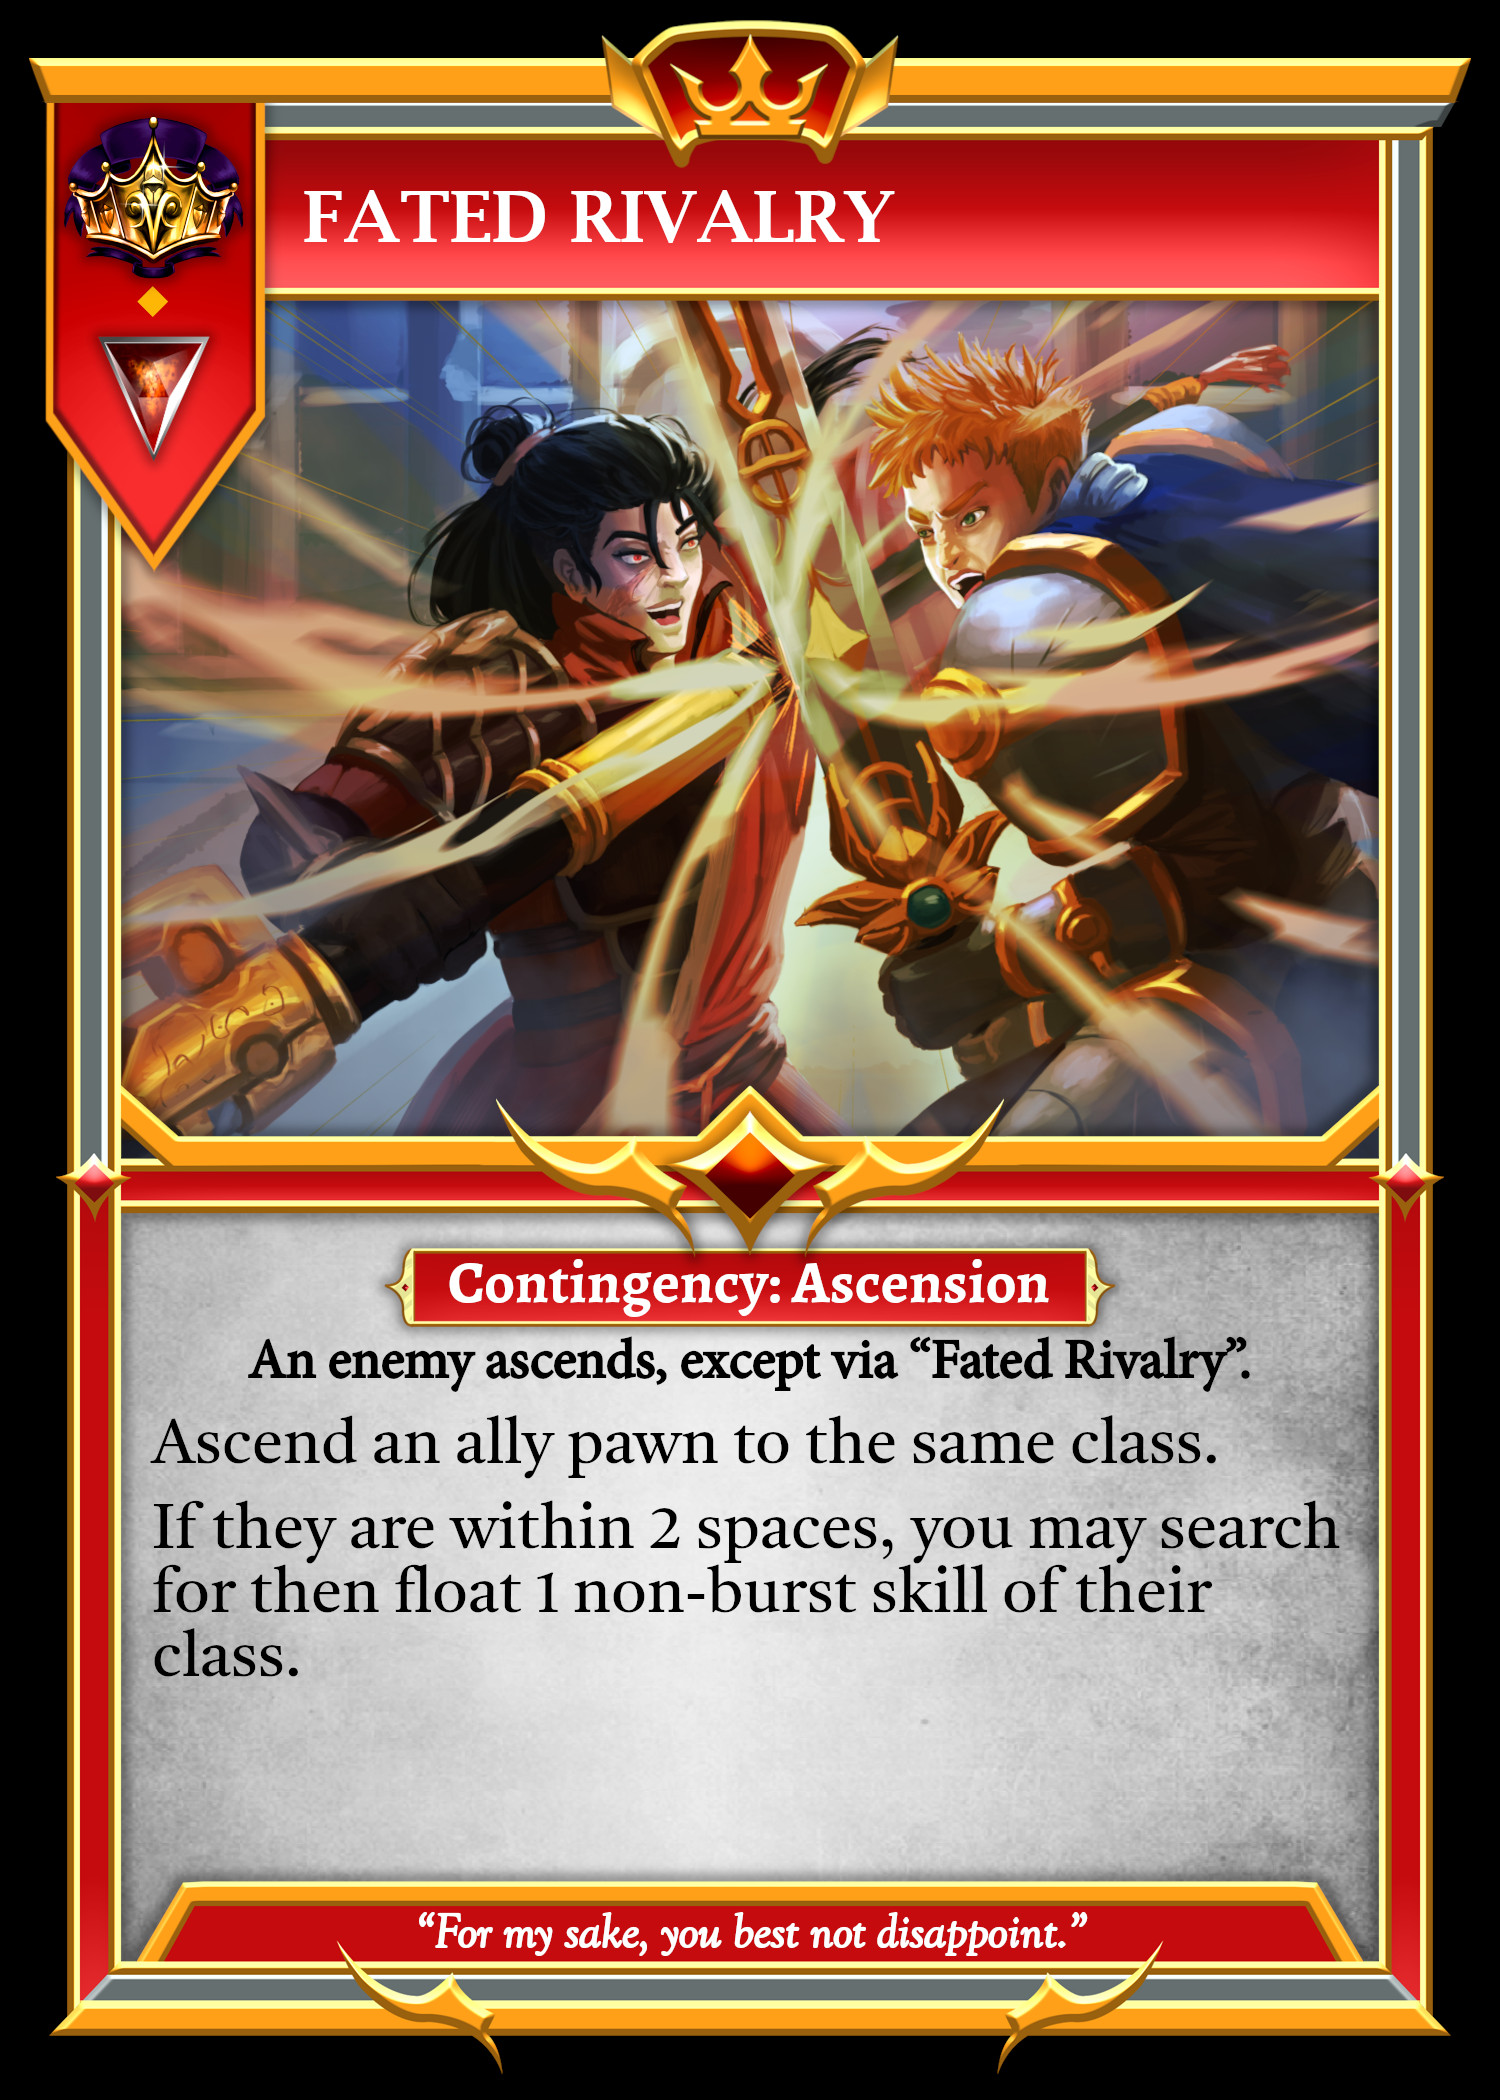
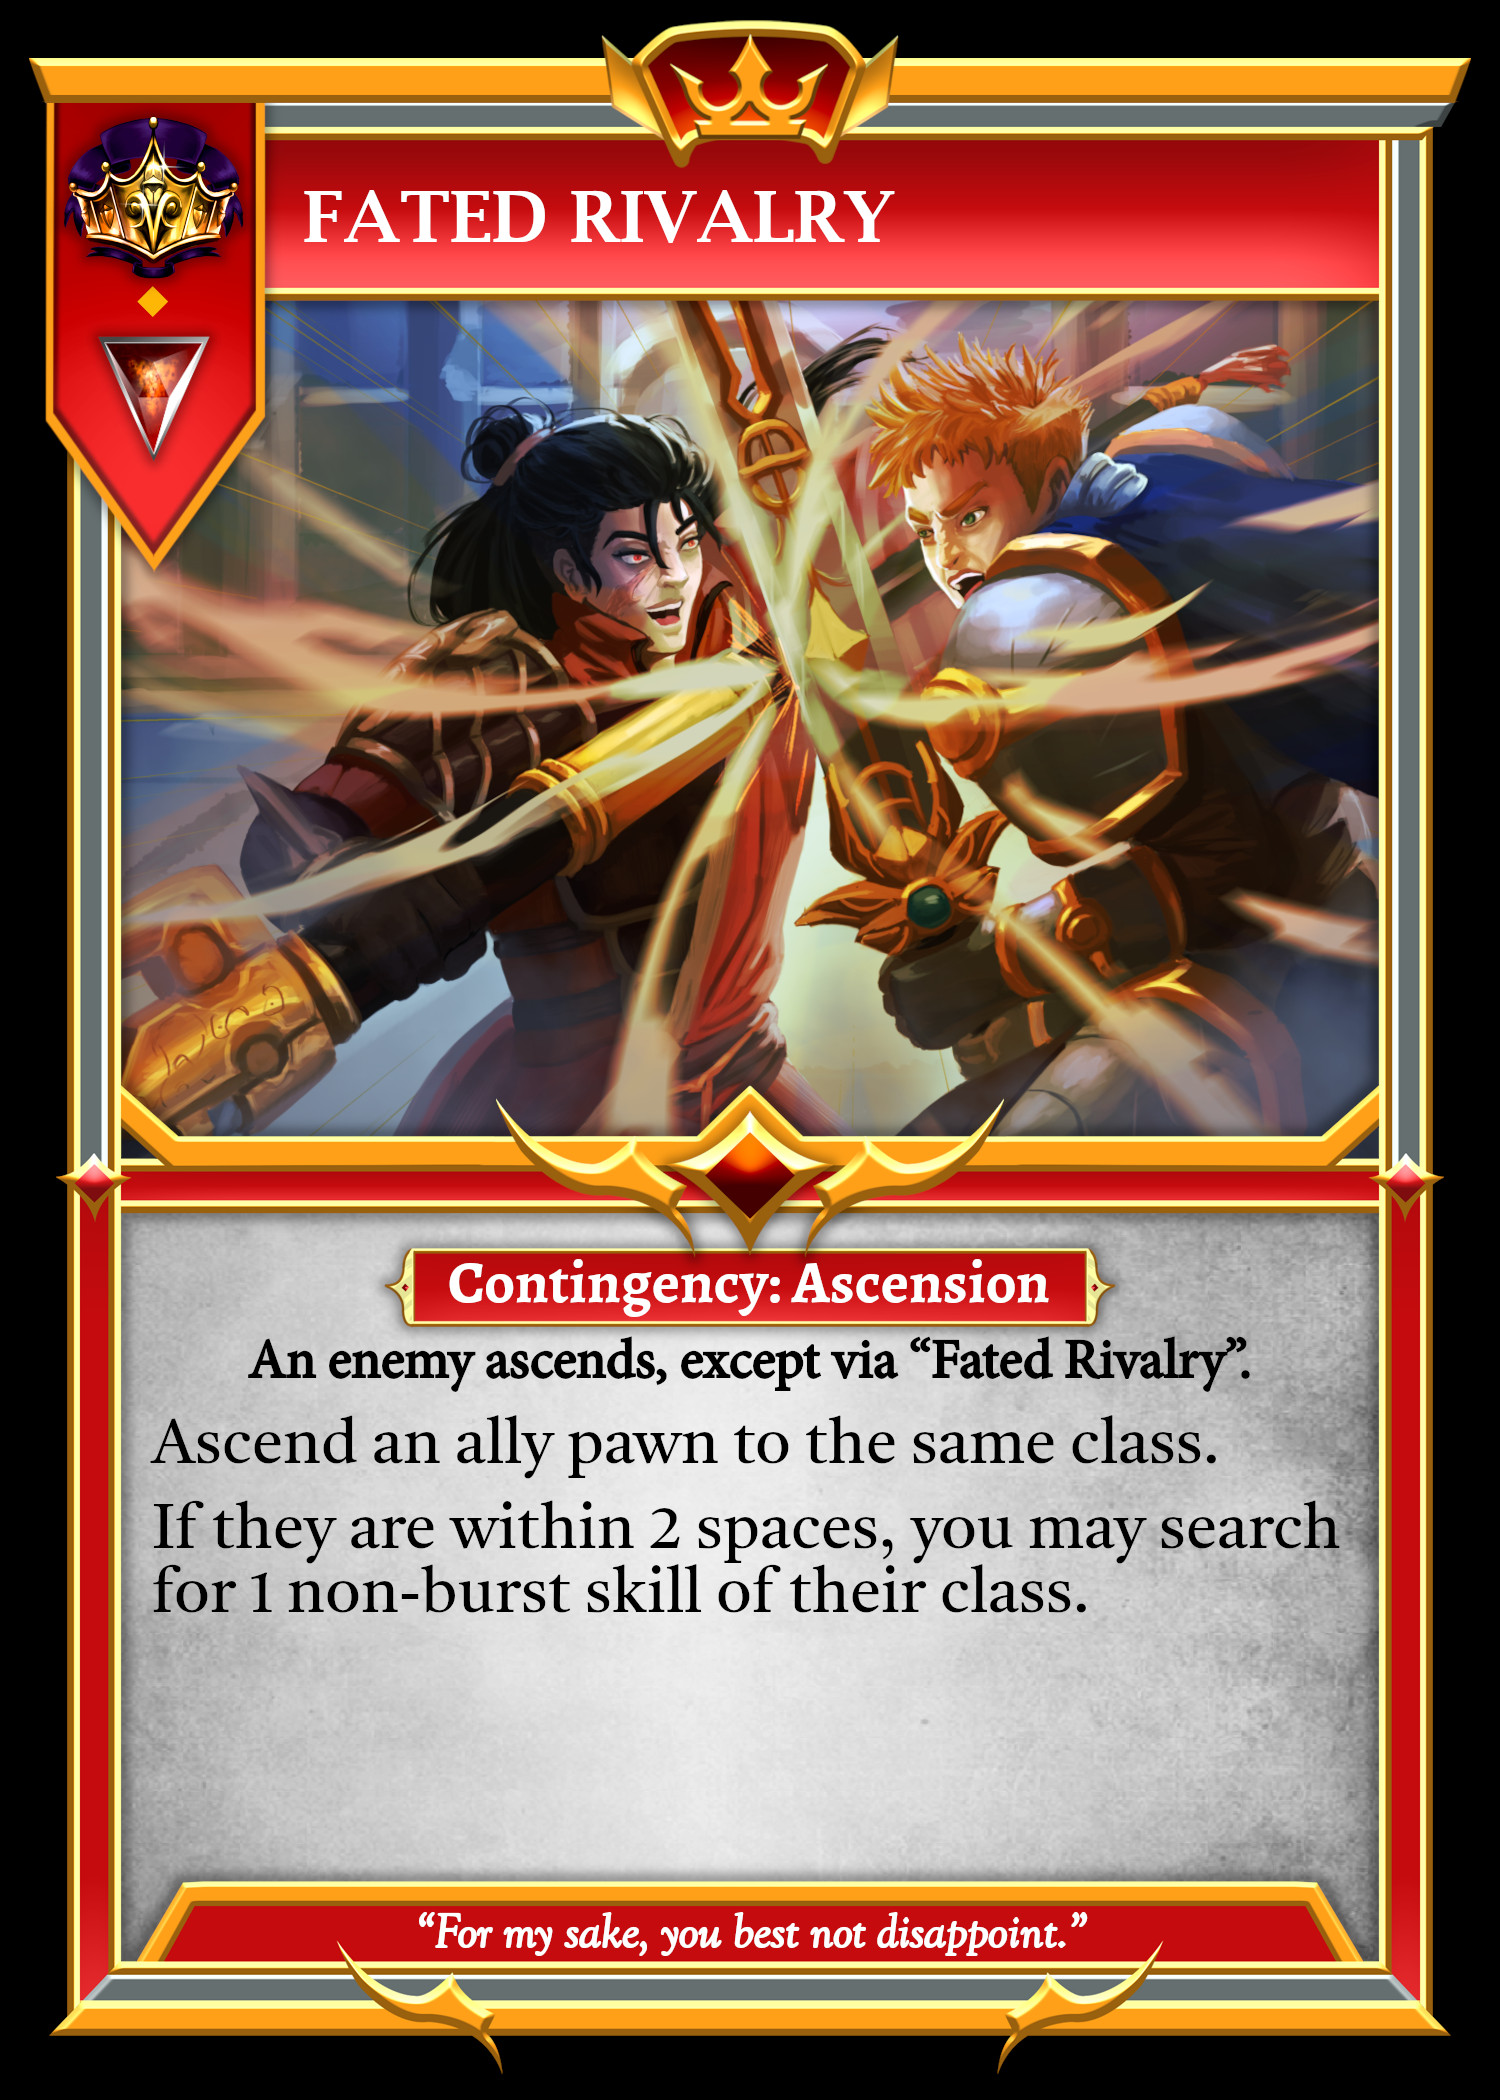
buffed Fated rivalry: Search now adds rather than float.

Changed region(s): [[0.092, 0.7429, 0.7973, 0.8048]]

diff --git a/src/components/modals/YouMayNoYes.jsx b/src/components/modals/YouMayNoYes.jsx
@@ -434,16 +434,15 @@ const YouMayNoYes = (props) => {
             restriction: getScionSet(unit.unitClass),
             exclusion: allBurstSkills(),
             searchTitle: "Fated Rivalry",
-            searchMessage:
-              "Search for then float 1 non-burst skill of their class",
-            outcome: "Float",
+            searchMessage: "Search for 1 non-burst skill of their class",
+            outcome: "Add",
             revealTitle: null,
             revealMessage: null,
             messageTitle: "Fated Rivalry",
-            message: "Your opponent has searched for and floated a skill.",
+            message: "Your opponent has searched for a skill.",
             specMessage: `${
               self === "host" ? "Gold" : "Silver"
-            } Sovereign has searched for and floated a skill.`,
+            } Sovereign has searched for a skill.`,
           },
         });
 

diff --git a/src/hooks/useSovereignSkillEffects.jsx b/src/hooks/useSovereignSkillEffects.jsx
@@ -658,8 +658,7 @@ export const useSovereignSkillEffects = () => {
         details: {
           reason: "Fated Rivalry",
           title: "Fated Rivalry",
-          message:
-            "You may search for then float 1 non-burst skill of their class.",
+          message: "You may search for 1 non-burst skill of their class.",
           no: "Skip",
           yes: "Search",
         },
